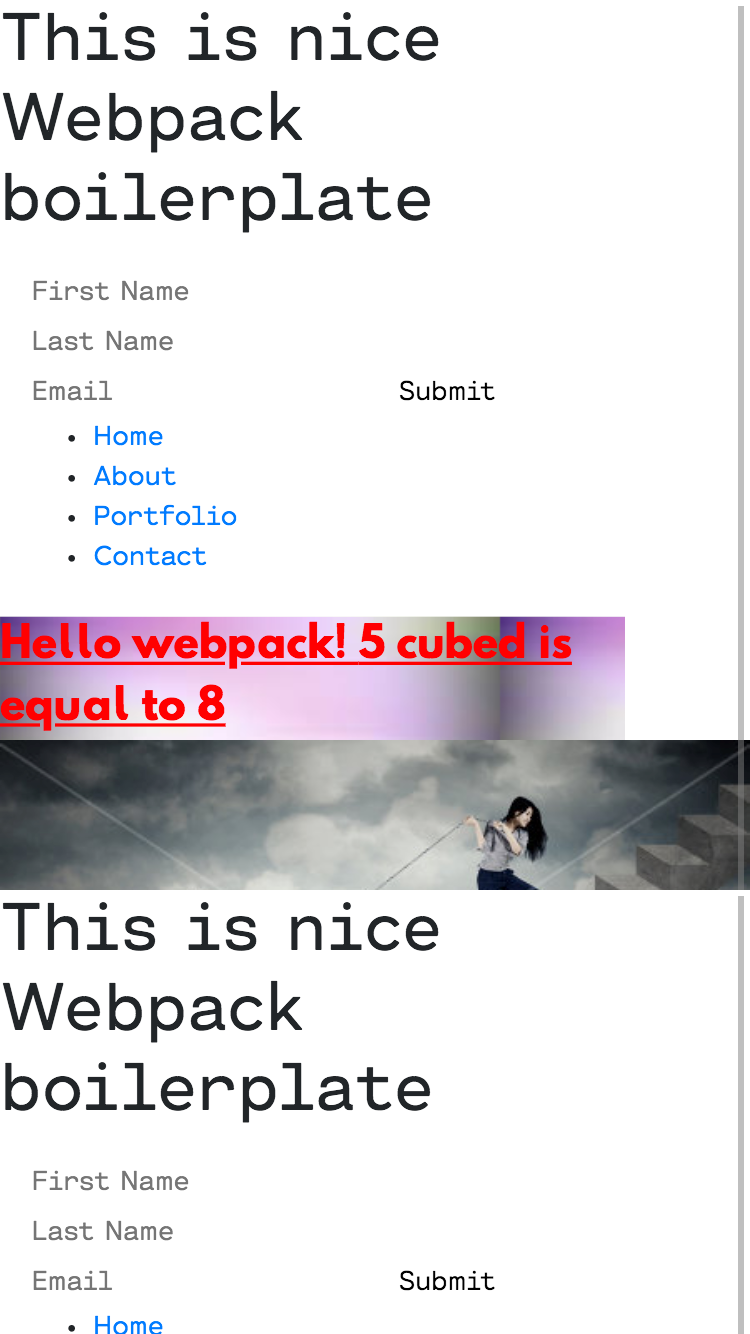
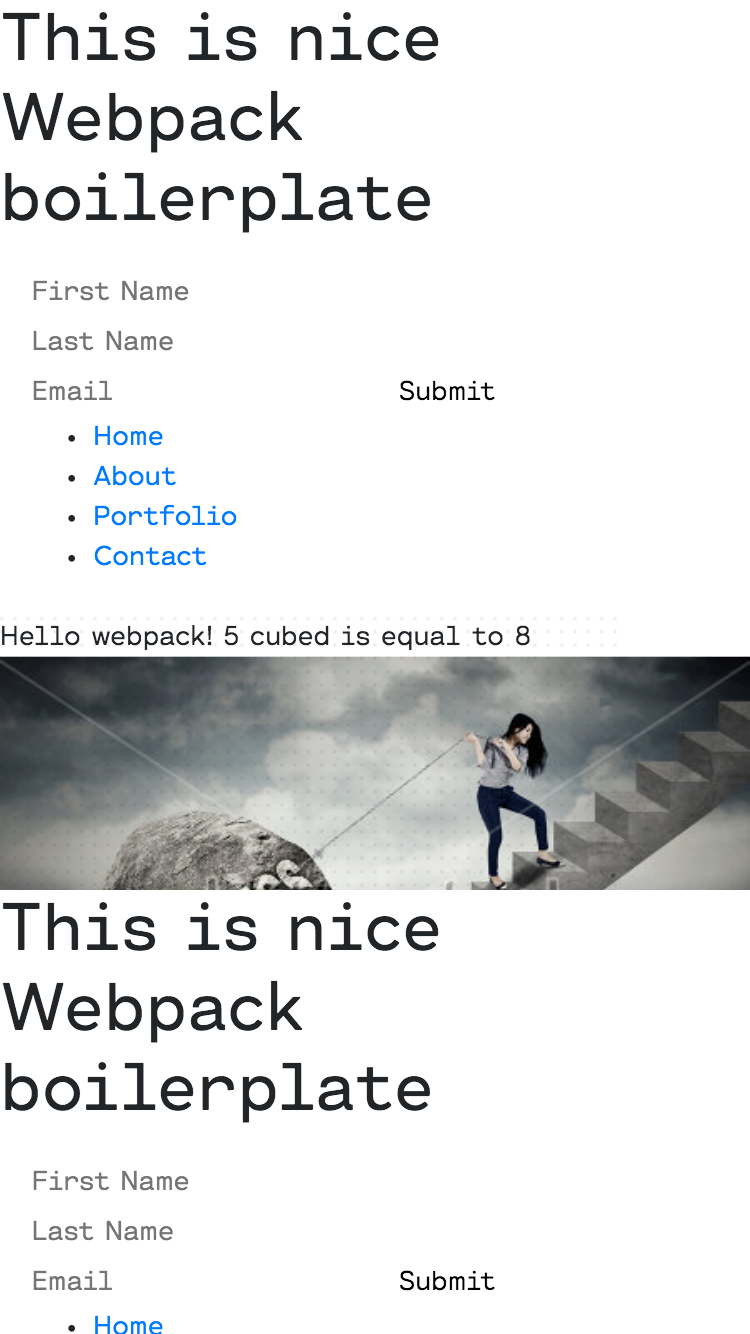
change bg pattern

Changed region(s): [[0.0, 0.0, 1.0, 1.0]]

diff --git a/src/styles/style.scss b/src/styles/style.scss
@@ -2,23 +2,34 @@
 @import './fonts/_cartograph-mono';
 @import './fonts/_cartograph-sans';
 @import './fonts/_font-open-iconic';
-@import './global/variable.scss';
+// @import './global/variable.scss';
 
 body {
-	font-family: 'Cartograph Sans CF';
+  font-family: 'Cartograph Sans CF';
 }
 
 @font-face {
-	font-family: 'MyFont';
-	src: url('../fonts/kinetic/HussarBoldWeb.otf') format('otf'),
-		url('../fonts/kinetic/HussarBoldWeb.woff') format('woff');
+  font-family: 'MyFont';
+  src: url('../fonts/kinetic/HussarBoldWeb.otf') format('otf'),
+    url('../fonts/kinetic/HussarBoldWeb.woff') format('woff');
 
-	font-weight: 600;
-	font-style: normal;
+  font-weight: 600;
+  font-style: normal;
 }
 
 .hello {
-	color: red;
-	font-family: 'MyFont';
-	background: url('../images/bg.jpeg');
+  // color: red;
+  // font-family: 'MyFont';
+  // background: url('../images/bg.jpeg');
+  position: relative;
+  &::after {
+    content: '';
+    position: absolute;
+    left: 0;
+    top: 0;
+    height: 100%;
+    width: 100%;
+    background-image: url('../images/dot-pattern.png');
+    opacity: .1;
+  }
 }

diff --git a/src/scripts/index.js b/src/scripts/index.js
@@ -1,6 +1,8 @@
 import _ from 'lodash';
+
 import stockImage from '../images/stock.jpg';
 import '../styles/style.scss';
+
 import printMe from './modules/print.js';
 import { cube } from './modules/math';
 

diff --git a/src/templates/index.html b/src/templates/index.html
@@ -26,6 +26,6 @@
     </ul>
 
   </nav>
-  
+
 </body>
 </html>
